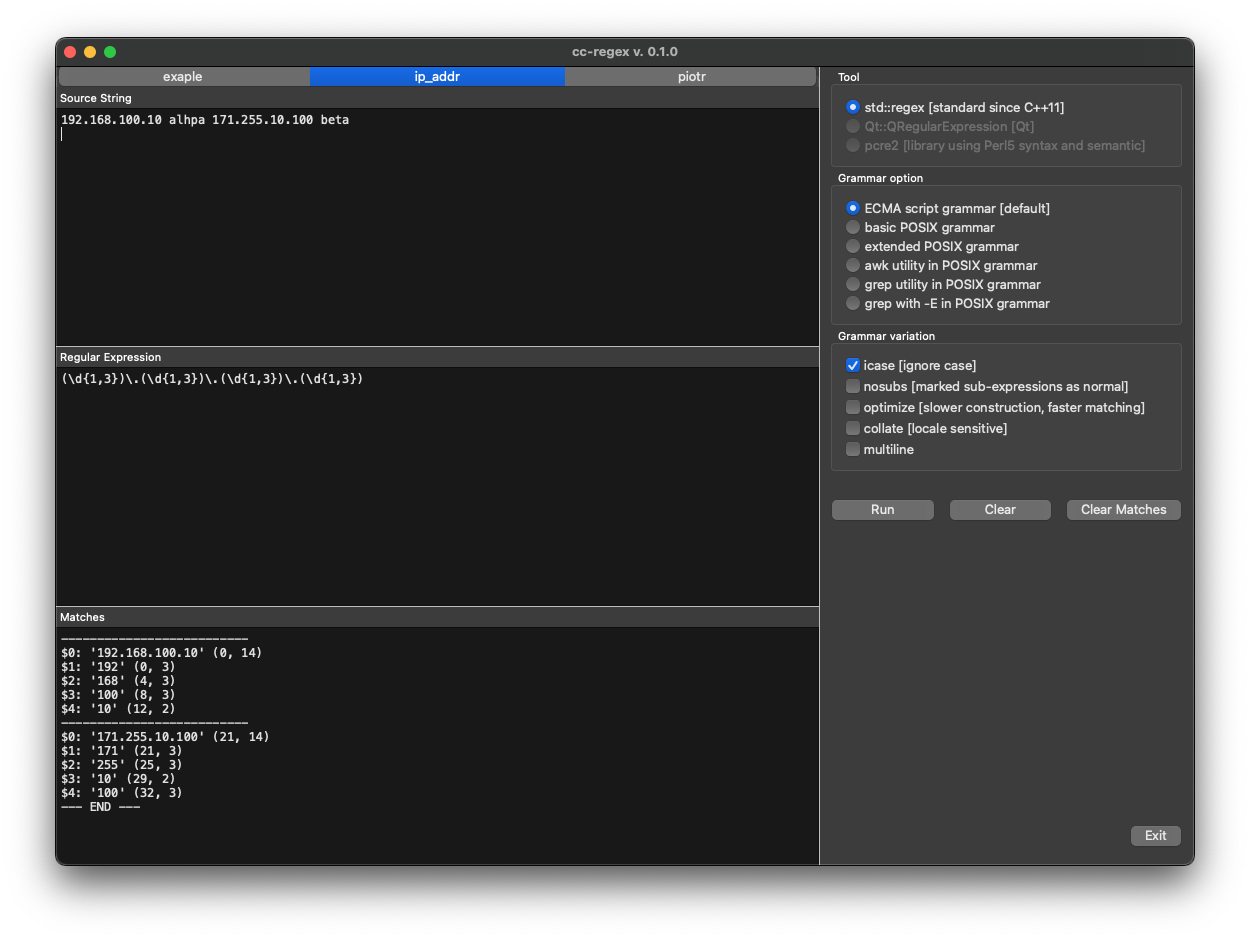
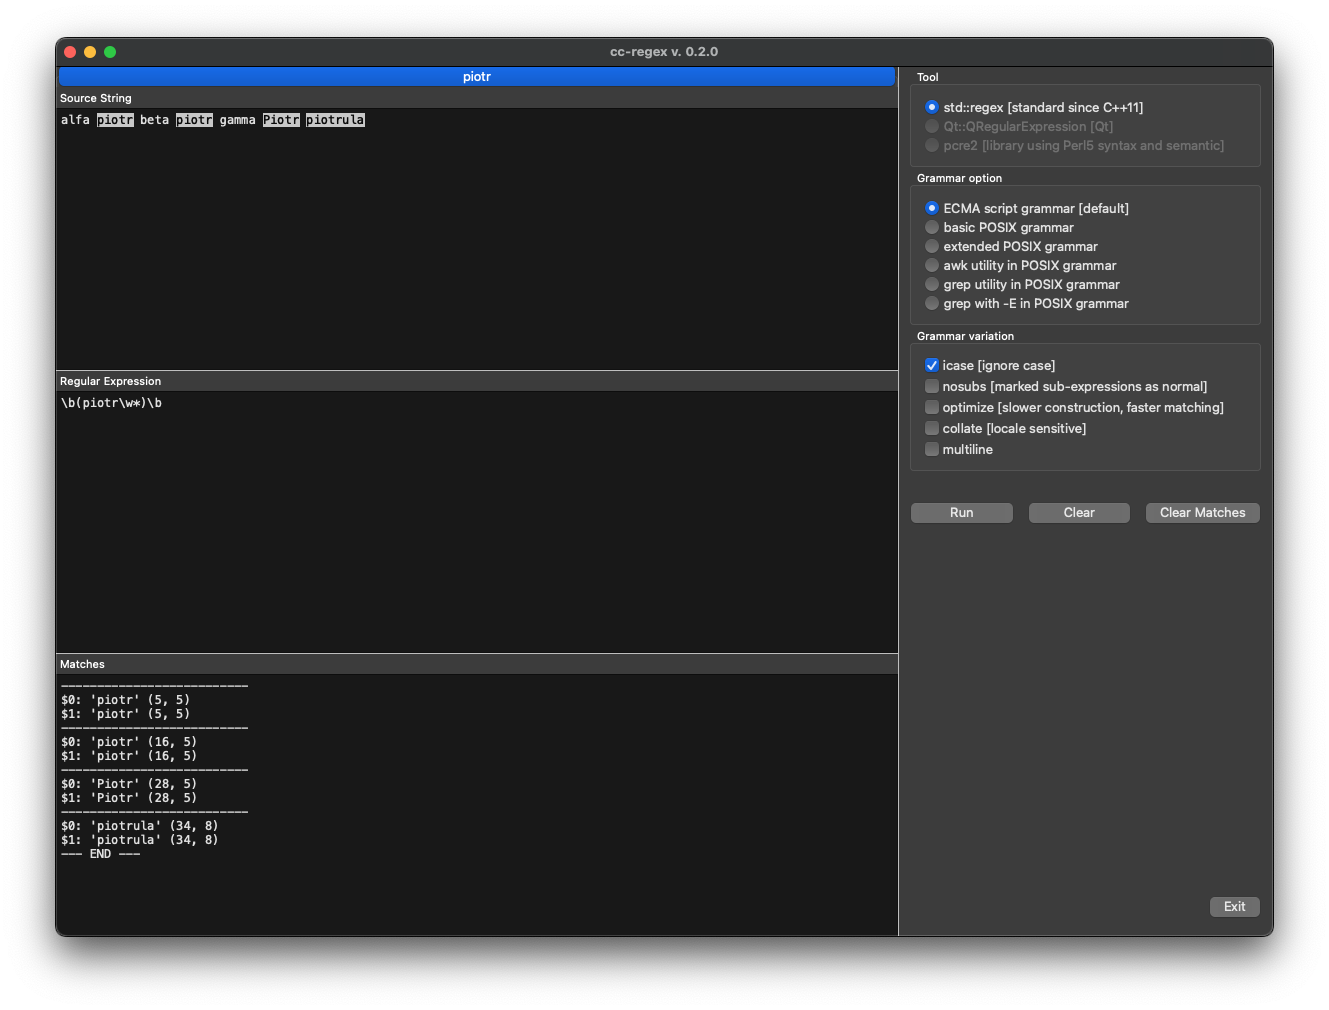
highlighter

Changed region(s): [[0.0312, 0.0309, 0.9672, 0.9265]]

diff --git a/Workspace.cpp b/Workspace.cpp
@@ -153,10 +153,10 @@ void Workspace::run_std(type::StdSyntaxOption grammar, std::vector<type::StdSynt
                 std::regex rgx(pattern, opt);
                 auto match_begin_it = std::sregex_iterator(source.begin(), source.end(), rgx);
                 auto match_end_it = std::sregex_iterator();
+                std::vector<Match> buffer;
                 for (auto it = match_begin_it; it != match_end_it; ++it) {
                     std::smatch match = *it;
                     EventController::instance().send_event(event::AppendLine, "--------------------------");
-                    std::vector<Match> buffer;
                     for (uint i = 0; i < match.size(); ++i) {
                         auto const pos = int(match.position(i));
                         auto const length = int(match.length(i));
@@ -166,9 +166,9 @@ void Workspace::run_std(type::StdSyntaxOption grammar, std::vector<type::StdSynt
                         EventController::instance().send_event(event::AppendLine, qstr::fromStdString(text));
                         buffer.push_back(Match{.nr = int(i), .pos = pos, .length = length, .str = str});
                     }
-                    auto matches_json = glz::write_json(buffer);
-                    EventController::instance().send_event(event::Match, qstr::fromStdString(matches_json));
                 }
+                auto matches_json = glz::write_json(buffer);
+                EventController::instance().send_event(event::Match, qstr::fromStdString(matches_json));
             }
             catch (std::regex_error const& e) {
                 auto msg = qstr::fromStdString(e.what());

diff --git a/Settings.h b/Settings.h
@@ -54,7 +54,7 @@ public:
         return {};
     }
 
-    static inline qstr const AppName = "cc-regex v. 0.1.0";
+    static inline qstr const AppName = "cc-regex v. 0.2.0";
     static inline QColor const BackgroundColor{60, 60, 60};
     static inline QMargins const NoMargins{0, 0, 0, 0};
     static inline int const NoHandle{0};

diff --git a/Highlighter.cc b/Highlighter.cc
@@ -39,7 +39,7 @@ Highlighter::Highlighter(QTextDocument* const parent) : QSyntaxHighlighter(paren
 }
 
 void Highlighter::highlightBlock(qstr const& line) {
-    if (line.isEmpty()) return;
+    if (line.isEmpty() or data_.empty()) return;
 
     fmt::print("Line: {}\n", line.toStdString());
     auto text = line.toStdString();

diff --git a/README.md b/README.md
@@ -41,4 +41,5 @@ Patterns and sources can be saved to a file on disk and read from them (see app 
 <lu>
     <li>0.0.1 - initial working version</li>
     <li>0.1.0 - it is possible to work with several documents at the same time</li>
+    <li>0.2.0 - it is added match highlighting in source editor</li>
 </lu>
